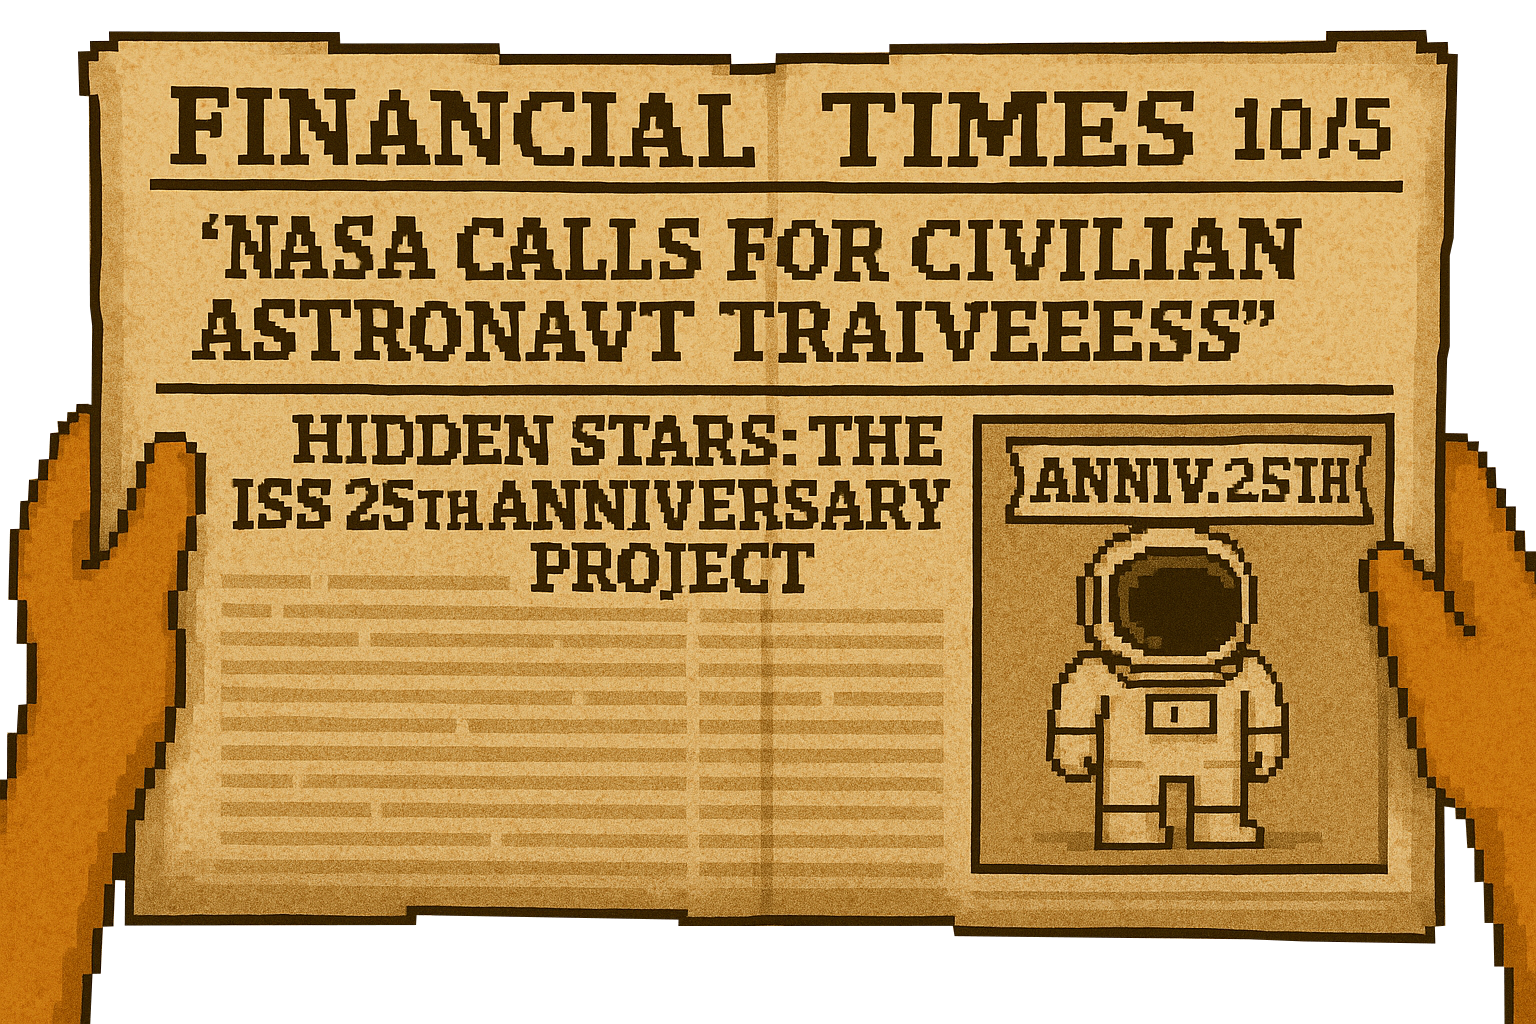
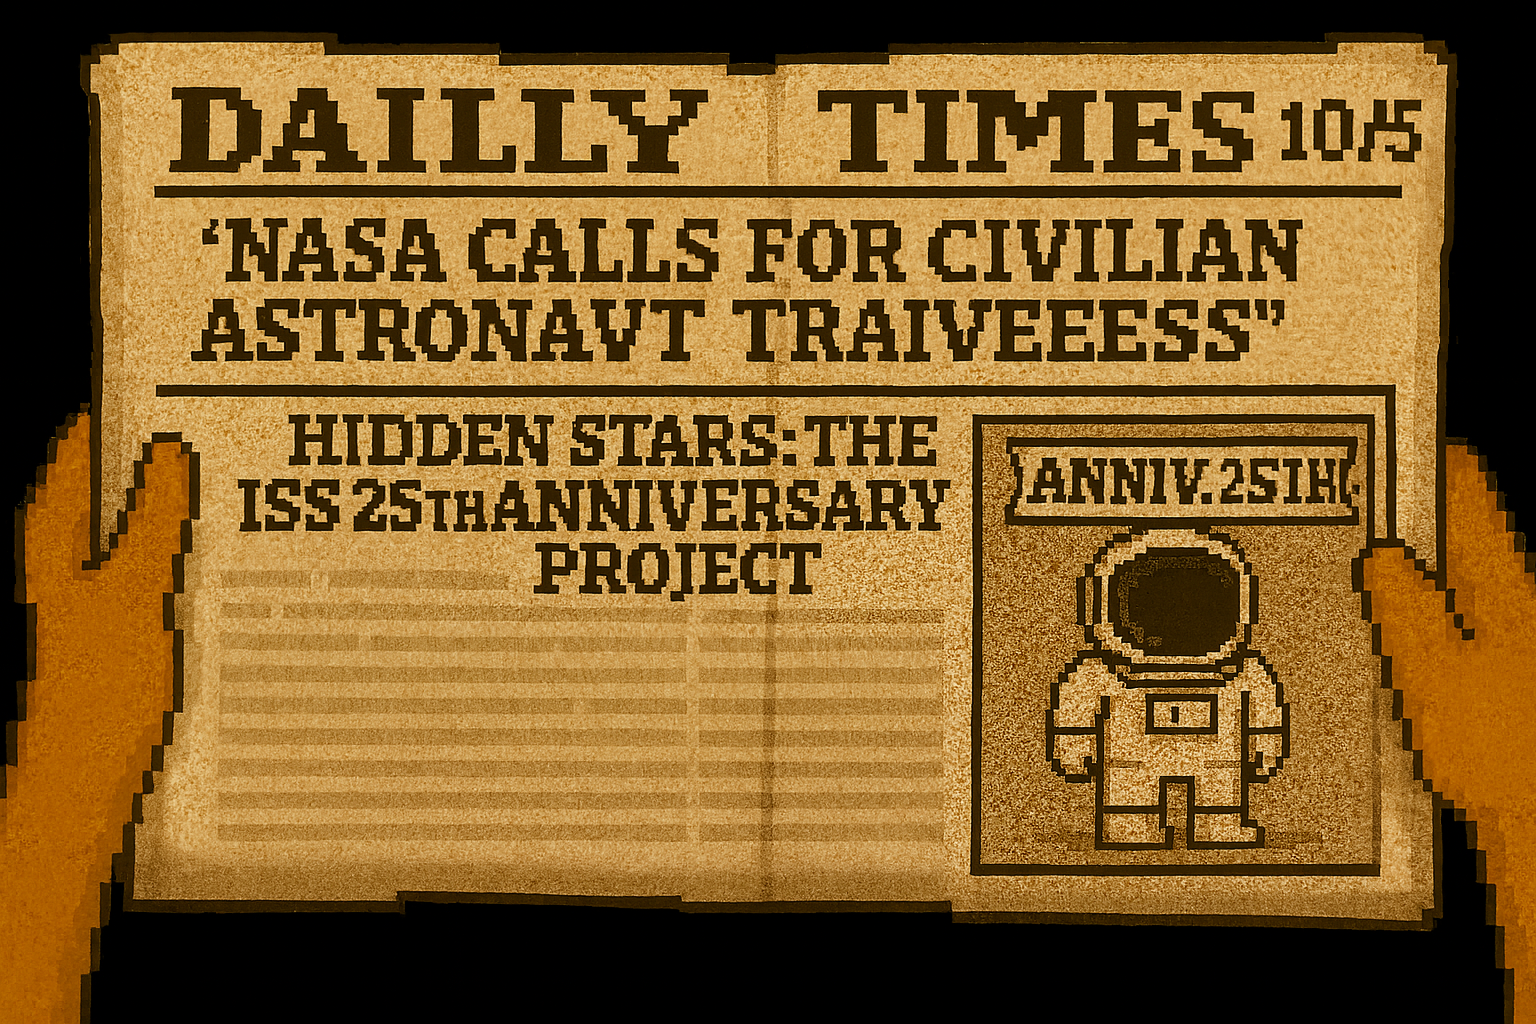
비기닝 마무리

diff --git a/frontend/src/App.jsx b/frontend/src/App.jsx
@@ -1,6 +1,7 @@
 import React, { useState } from "react";
 import StartScreen from "./components/StartScreen.jsx";
-import IntroScreen from "./components/introScreen.jsx";
+import IntroScreen from "./components/IntroScreen.jsx";
+import BeginningScreen from "./components/BeginningScreen.jsx";
 import Stage1 from "./components/stages/Stage1.jsx";
 import Stage2 from "./components/stages/Stage2.jsx";
 import Stage3 from "./components/stages/Stage3.jsx";
@@ -8,10 +9,11 @@ import Cupola from "./components/stages/Cupola.jsx";
 import MonologueBuzz from "./components/stages/MonologueBuzz.jsx";
 
 export default function App() {
-  const [scene, setScene] = useState("splash");
-  const [stage, setStage] = useState("stage1");
+  const [scene, setScene] = useState("splash"); // 현재 장면
+  const [stage, setStage] = useState("stage1"); // 현재 스테이지
   const rootClass = scene === "stage" ? "stage-root" : "";
 
+  // 스테이지 렌더링 스위치
   const renderStage = () => {
     switch (stage) {
       case "stage1":
@@ -31,11 +33,12 @@ export default function App() {
 
   return (
     <div className={rootClass}>
+      {/* 🎬 1⃣ 시작 화면 */}
       {scene === "splash" && (
         <StartScreen
           onStart={(selected) => {
             setStage(selected || "stage1");
-            setScene("intro");
+            setScene("intro"); // ✅ Start 후 인트로로 이동
           }}
           onJump={(s) => {
             setStage(s);
@@ -43,7 +46,18 @@ export default function App() {
           }}
         />
       )}
-      {scene === "intro" && <IntroScreen onFinish={() => setScene("stage")} />}
+
+      {/* 🧍♂ 2⃣ IntroScreen (Buzz Joe의 독백 인트로) */}
+      {scene === "intro" && (
+        <IntroScreen onFinish={() => setScene("beginning")} /> // ✅ 인트로 끝나면 Beginning으로
+      )}
+
+      {/* 📰 3⃣ BeginningScreen (신문 등장 씬) */}
+      {scene === "beginning" && (
+        <BeginningScreen onFinish={() => setScene("stage")} /> // ✅ 신문 끝나면 Stage 시작
+      )}
+
+      {/* 🚀 4⃣ Stage 화면 */}
       {scene === "stage" && renderStage()}
     </div>
   );

diff --git a/frontend/src/components/BeginningScreen.jsx b/frontend/src/components/BeginningScreen.jsx
@@ -1,0 +1,47 @@
+import React, { useEffect, useState } from "react";
+import "../styles/BeginningScreen.css";
+
+export default function BeginningScreen({ onFinish }) {
+  const [showNewspaper, setShowNewspaper] = useState(false); // 신문 등장 제어
+  const [fadeBright, setFadeBright] = useState(false);       // 밝아짐 제어
+  const [showNext, setShowNext] = useState(false);           // Next 버튼 표시 제어
+
+  useEffect(() => {
+    const timers = [];
+
+    // 📰 1⃣ 신문 등장
+    timers.push(setTimeout(() => setShowNewspaper(true), 1000));
+
+    // ☀ 2⃣ 신문 밝아지기 시작
+    timers.push(setTimeout(() => setFadeBright(true), 2000));
+
+    // ⏳ 3⃣ 밝아진 후 2.5초 뒤 Next 버튼 표시
+    timers.push(setTimeout(() => setShowNext(true), 4500));
+
+    // ❌ 자동 전환은 제거! (onFinish 실행 없음)
+    return () => timers.forEach(clearTimeout);
+  }, []);
+
+  return (
+    <div className="beginning-container">
+      {/* 어두운 배경 */}
+      <img src="/back.png" alt="background" className="background" />
+
+      {/* 신문 이미지 */}
+      {showNewspaper && (
+        <img
+          src="/newspaper.png"
+          alt="newspaper"
+          className={`newspaper ${fadeBright ? "fade-in" : ""}`}
+        />
+      )}
+
+      {/* 버튼 — 직접 눌러야 전환 */}
+      {showNext && (
+        <button className="next-button fade-up" onClick={onFinish}>
+          Let's go challange!
+        </button>
+      )}
+    </div>
+  );
+}

diff --git a/frontend/src/styles/BeginningScreen.css b/frontend/src/styles/BeginningScreen.css
@@ -1,0 +1,77 @@
+@import url('https://fonts.googleapis.com/css2?family=Audiowide&display=swap');
+
+html, body {
+  margin: 0;
+  padding: 0;
+  width: 100vw;
+  height: 100vh;
+  overflow: hidden;
+  background: black;
+}
+
+.beginning-container {
+  position: fixed;
+  top: 0;
+  left: 0;
+  width: 100vw;
+  height: 100vh;
+  display: flex;
+  justify-content: center;
+  align-items: center;
+  background: black;
+  overflow: hidden;
+}
+
+.background {
+  position: absolute;
+  top: 0;
+  left: 0;
+  width: 100%;
+  height: 100%;
+  object-fit: cover;
+  filter: brightness(0.7);
+  z-index: 1;
+}
+
+.newspaper {
+  position: absolute;
+  width: 70%;
+  opacity: 0;
+  filter: brightness(0.3);
+  z-index: 2;
+  transition: opacity 2s ease, filter 2.5s ease;
+}
+
+.fade-in {
+  opacity: 1;
+  filter: brightness(1);
+}
+
+.next-button {
+  position: absolute;
+  bottom: 10px;
+  right: 45px;
+  display: block;
+  padding: 10px 10px;
+  font-size: 1.2rem;
+  font-family: "Audiowide", sans-serif;
+  color: #222;
+  background: var(--accent);
+  border: none;
+  border-radius: 6px;
+  cursor: pointer;
+  transition: transform 0.2s ease, background 0.2s ease;
+  margin-bottom: 80px; /* 하단 여백 */
+  z-index: 10;
+  box-shadow: 3px 4px 5px rgba(120, 166, 255, 0.9);
+}
+
+.fade-up {
+  opacity: 1;
+  transform: translateY(0);
+}
+
+.next-button:hover {
+  transform: scale(1.02);
+  background: #5f92f0;
+}

diff --git a/frontend/src/styles/StartScreen.css b/frontend/src/styles/StartScreen.css
@@ -37,7 +37,6 @@ body {
   box-sizing: border-box;
 }
 
-/* ✅ JS 기반 타이핑 효과 사용 → .typewriter 관련 CSS 제거됨 */
 
 /* 중앙의 Start 버튼 */
 .start-btn {

diff --git a/frontend/src/styles/IntroScreen.css b/frontend/src/styles/IntroScreen.css
@@ -1,5 +1,6 @@
 @import url('https://fonts.googleapis.com/css2?family=Audiowide&display=swap');
 
+
 html, body {
   margin: 0;
   padding: 0;
